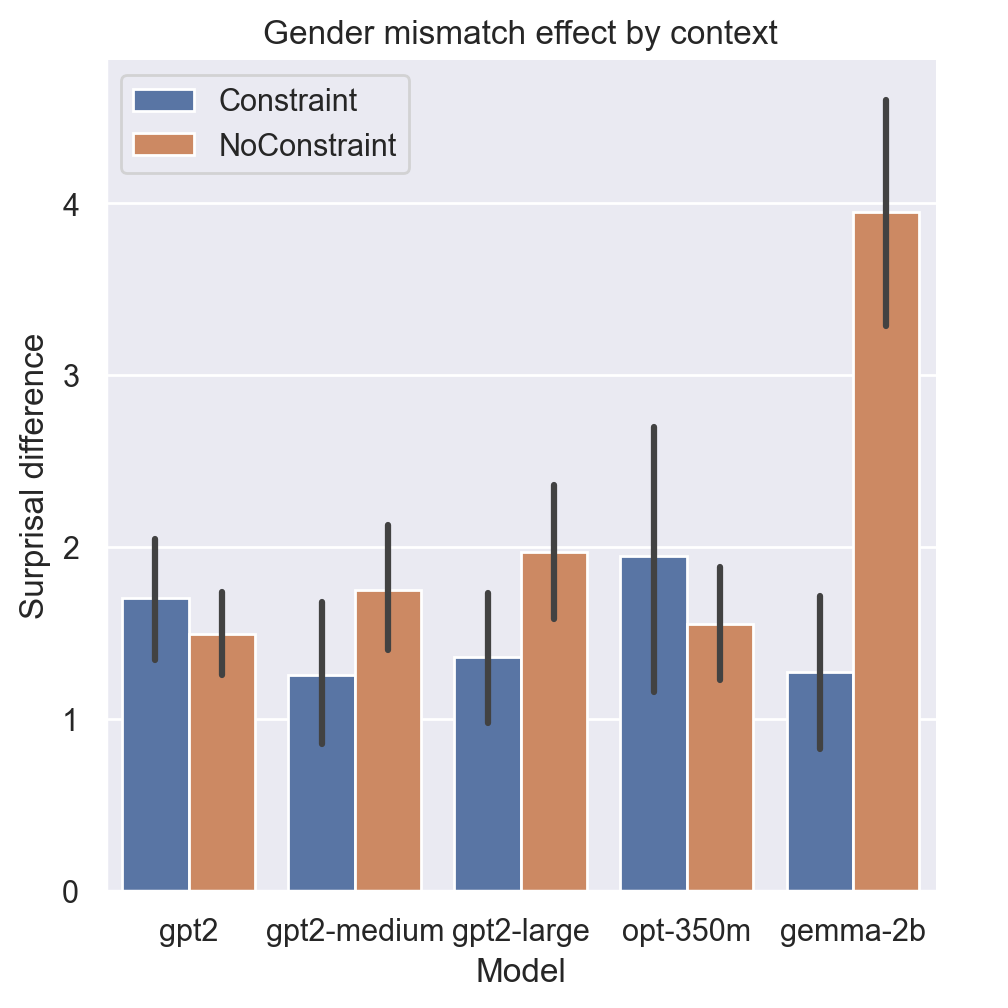
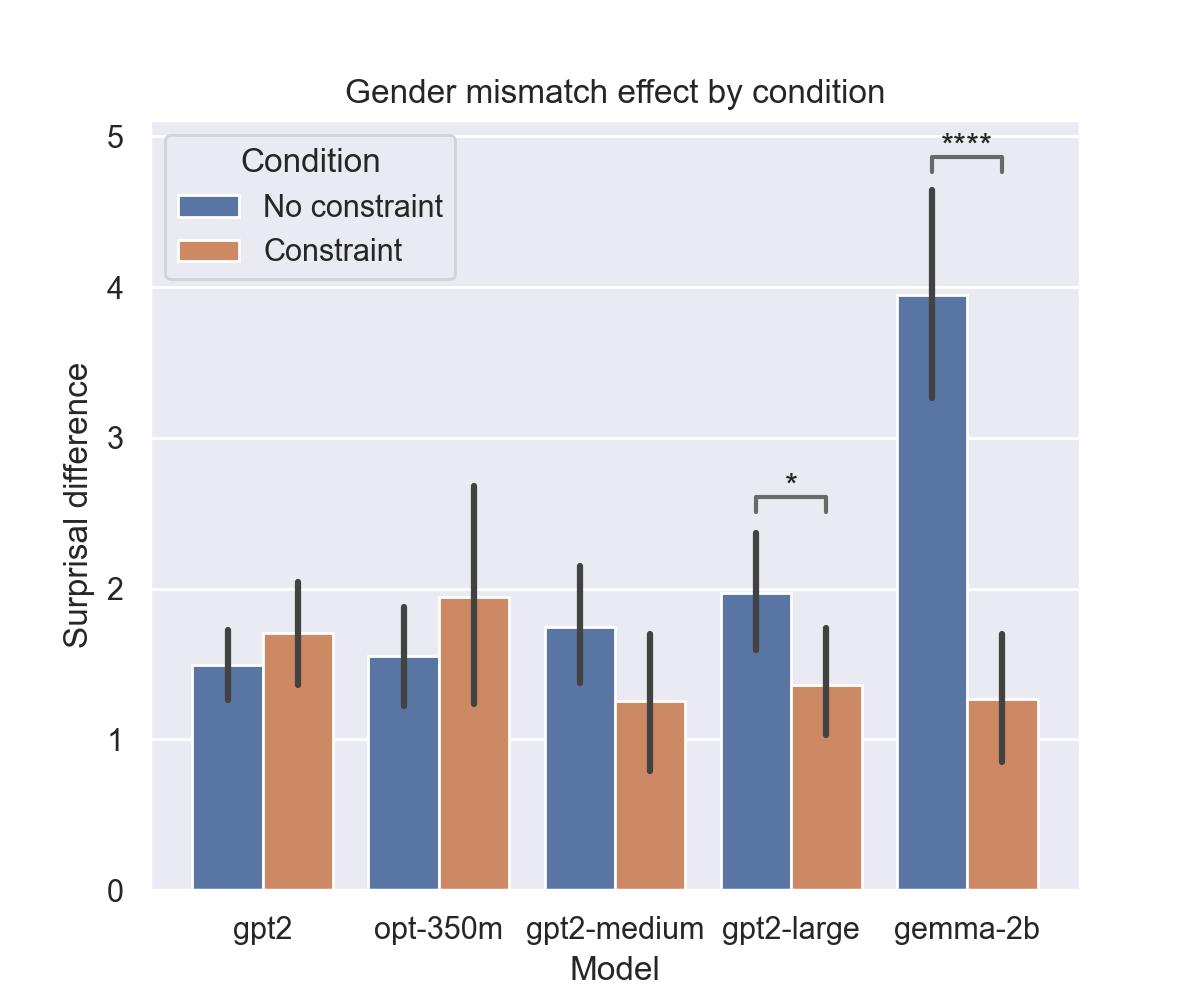
task & plot update

diff --git a/PrincipleB_analysis.py b/PrincipleB_analysis.py
@@ -1,14 +1,13 @@
 import pandas as pd
-import numpy as np
 import matplotlib.pyplot as plt
 import seaborn as sns
 from scipy import stats
 
 causal_models = [
     'openai-community/gpt2',
+    'facebook/opt-350m',
     'openai-community/gpt2-medium',
     'openai-community/gpt2-large',
-    'facebook/opt-350m',
     'google/gemma-2b',
 ]
 
@@ -17,7 +16,7 @@ models = [model.split('/')[1] for model in causal_models]
 gmme = {
     'Model': [],
     'GMME': [],
-    'Context': [],
+    'Condition': [],
 }
 
 for model in models:
@@ -28,76 +27,60 @@ for model in models:
         {condition: results[results['Condition'] == condition]['Surprisal'].to_list() for condition in conds}
     )
 
-    gmme['Model'].extend([model] * 48)
-    gmme['GMME'].extend(list(data['Constraint-Mismatch'] - data['Constraint-Match']))
-    gmme['Context'].extend(['Constraint'] * 24)
-    gmme['GMME'].extend(list(data['NoConstraint-Mismatch'] - data['NoConstraint-Match']))
-    gmme['Context'].extend(['NoConstraint'] * 24)
+    gmme['Model'] += [model] * 48
+    gmme['GMME'] += list(data['Constraint-Mismatch'] - data['Constraint-Match'])
+    gmme['Condition'] += ['Constraint'] * 24
+    gmme['GMME'] += list(data['NoConstraint-Mismatch'] - data['NoConstraint-Match'])
+    gmme['Condition'] += ['No constraint'] * 24
 
 gmme = pd.DataFrame(gmme)
 
-sns.set_theme(style='darkgrid', rc={'figure.figsize':(6,9), "figure.dpi": 200})
-ax = sns.catplot(
+
+sns.set_theme(style='darkgrid', rc={'figure.figsize':(6,5), 'figure.dpi': 200})
+ax = sns.barplot(
     data=gmme,
-    kind='box',
     x='Model',
     y='GMME',
-    hue='Context',
+    hue='Condition',
+    hue_order=('No constraint', 'Constraint'),
 )
-ax.set(title='Gender mismatch effect by context', ylabel='Surprisal difference')
-plt.legend(loc='upper left')
-plt.show()
-ax.savefig('results/PrincipleB.png')
+
+# annotate significance
+for i, model in enumerate(models):
+    conditions = gmme['Condition'].unique()
+
+    data = {condition: gmme[(gmme['Model'] == model) & (gmme['Condition'] == condition)]['GMME'] for condition in conditions}
+    means = {const: data[const].mean() for const in conditions}
+    upper_ci95 = {
+        condition: stats.t.interval(
+            .95,
+            df=len(data[condition]) - 1,
+            loc=means[condition],
+            scale=stats.sem(data[condition])
+        )[1] for condition in conditions
+    }
+    y = max(upper_ci95[condition] for condition in conditions) + .1
+
+    t, p = stats.ttest_ind(*(data[const] for const in conditions))
+    draw = True
+    if p < .0001:
+        text = '****'
+    elif p < .001:
+        text = '***'
+    elif p < .01:
+        text = '**'
+    elif p < .05:
+        text = '*'
+    else:
+        draw = False
+    
+    if draw:
+        plt.plot([i - .2, i - .2, i + .2, i + .2], [y, y + .1, y + .1, y], color='dimgray')
+        plt.text(i, y + .1, text, horizontalalignment='center')
+
+
+ax.set(title='Gender mismatch effect by condition', ylabel='Surprisal difference')
+
+# plt.show()
+plt.savefig('results/PrincipleB.png')
 plt.close()
-
-# means = {cond: data[cond].mean() for cond in conds}
-# cis = {cond: stats.t.interval(.95, df=len(data) - 1, loc=means[cond], scale=stats.sem(data[cond])) for cond in conds}
-# errs = {cond: cis[cond][1] - cis[cond][0] for cond in conds}
-
-# plt.figure()
-# plt.xticks(rotation=15)
-# plt.bar(conds, means.values(), yerr=errs.values())
-# plt.show()
-
-# # calculating GMME for constraint condition
-# models = [model.split('/')[1] for model in causal_models]
-# x = np.arange(5)
-# gmme = {
-#     'Model': [],
-#     'Constraint': [],
-#     'NoConstraint': [],
-# }
-# err = {
-#     'Constraint': [],
-#     'NoConstraint': [],
-# }
-
-# for model_name in models:
-#     results = pd.read_csv(f'results/PrincipleB_{model_name}.csv')
-#     conds = sorted(results['Condition'].unique())
-#     data = pd.DataFrame(
-#         {condition: results[results['Condition'] == condition]['Surprisal'].to_list() for condition in conds}
-#     )
-#     gmme['Model'].append(model_name)
-#     gmme['Constraint'].append(data['Constraint-Mismatch'].mean() - data['Constraint-Match'].mean())
-#     gmme['NoConstraint'].append(data['NoConstraint-Mismatch'].mean() - data['NoConstraint-Match'].mean())
-
-# fig, ax = plt.subplots()
-# ax.title('Gender mismatch effect by context')
-# ax.grid()
-# ax.set_xlabel('Model')
-# ax.set_ylabel('Surprisal difference')
-# ax.bar(x - 0.2, gmme['Constraint'], width=.4, color='#979797')
-# ax.bar(x + 0.2, gmme['NoConstraint'], width=.4, color='#001443')
-# # ax.set_xticks(range(5))
-# ax.set_xticklabels([''] + models)
-# ax.legend(gmme)
-# plt.show()
-
-# dat = {models[i]: gmme['Constraint'][i] for i in range(5)}
-
-
-# plt.figure()
-# plt.title('Gender mismatch effect by context')
-# ax1 = sns.barplot(gmme, x='Model', y='')
-# plt.show()

diff --git a/causal_tasks.py b/causal_tasks.py
@@ -17,7 +17,7 @@ causal_models = [
     'google/gemma-2b',
 ]
 
-MODEL_NAME = causal_models[2]
+MODEL_NAME = causal_models[4]
 
 # initializing tokenizer and model
 tokenizer = AutoTokenizer.from_pretrained(MODEL_NAME, token=TOKEN)
@@ -31,10 +31,10 @@ def surp_next(context, word):
 
 task_list = [
     'PrincipleB',
-    'Sbj_Obj'
+    'Sbj-Obj'
 ]
 
-TASK = task_list[0]
+TASK = task_list[1]
 
 
 ###############################
